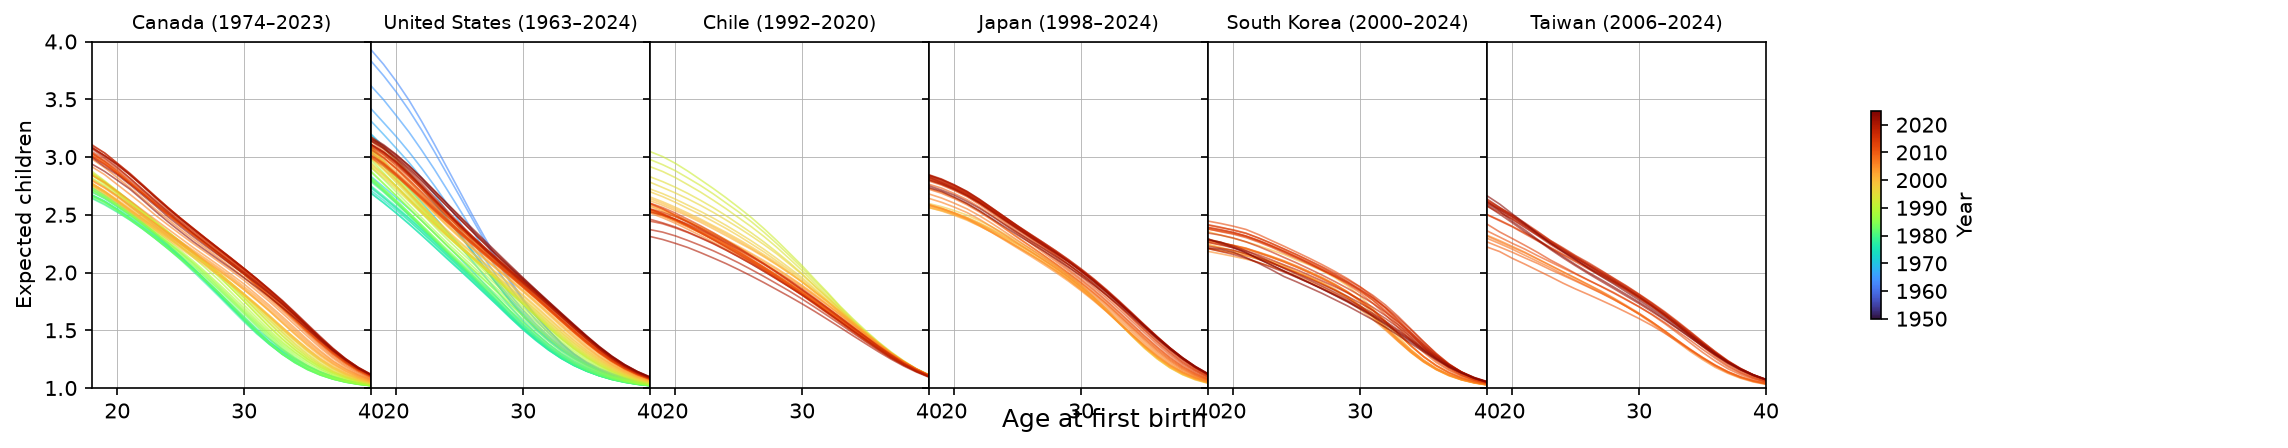
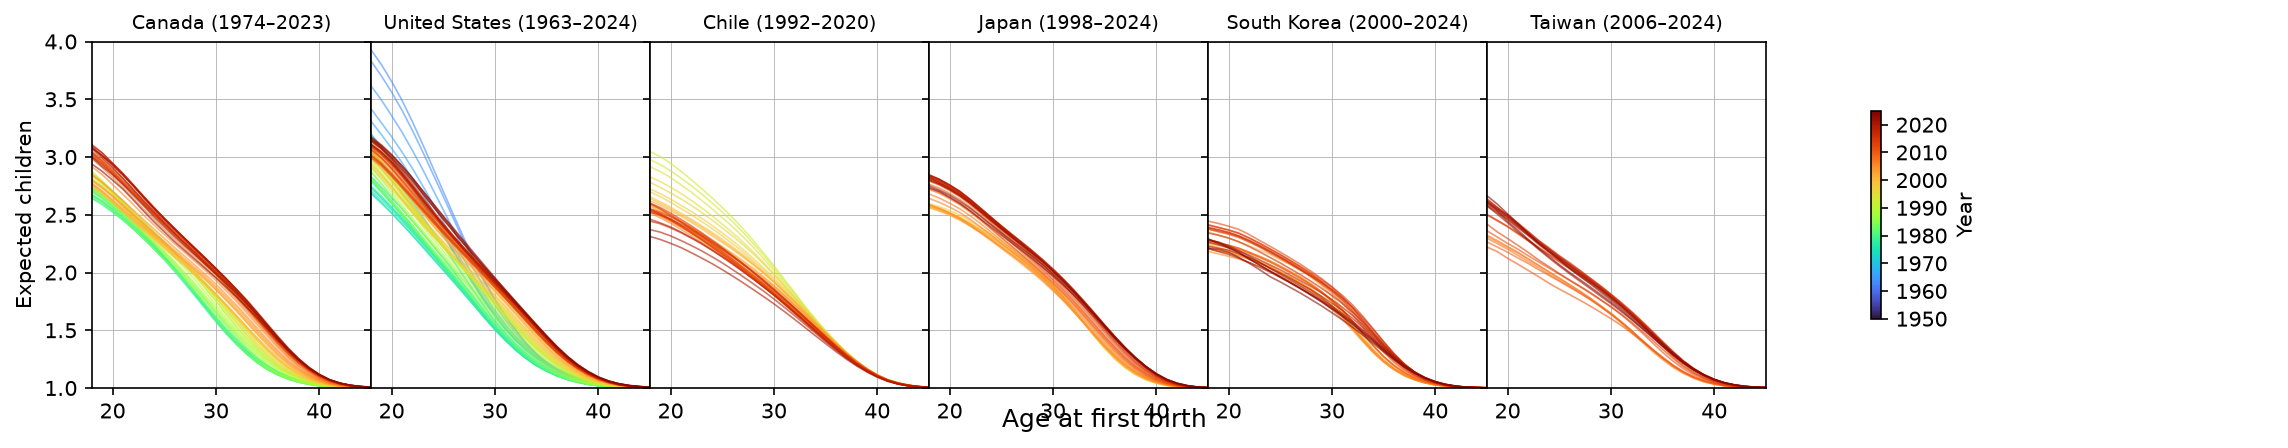
Extend X_LIM to 45 to match MIN_COMPLETE_AGE
X_LIM (chart x-axis range) and MIN_COMPLETE_AGE (cohort-inclusion
threshold) had both been 40 and were easy to conflate, but they're
independent: raising MIN_COMPLETE_AGE to 45 didn't change what age range
gets plotted. Extends the axis to match, on the main and accuracy charts
(births_per_mother_period_grid.py inherits X_LIM from
births_per_mother_region_grid.py, so no separate change needed there).

diff --git a/HFD/scripts/births_per_mother_accuracy.py b/HFD/scripts/births_per_mother_accuracy.py
@@ -28,7 +28,7 @@ from births_per_mother_region_grid import _expected_children_curve as expected_c
 from country_names import country_title
 
 REGISTER_COUNTRIES = ["DNK", "FIN", "HUN", "NOR", "SWE"]
-X_LIM = (18, 40)
+X_LIM = (18, 45)
 
 COLS = ["code", "year", "x", "w0x", "m1x", "q1x", "l0x", "b1x", "L0x", "Sb1x",
         "w1x", "m2x", "q2x", "l1x", "b2x", "L1x", "Sb2x",

diff --git a/HFD/scripts/births_per_mother_region_grid.py b/HFD/scripts/births_per_mother_region_grid.py
@@ -34,7 +34,7 @@ VALUE_5PLUS = 5.0
 # South Korea) show no lines: none of their tracked cohorts are old enough
 # yet for this page's terminal-age assumption to be safe.
 MIN_COMPLETE_AGE = 45
-X_LIM = (18, 40)
+X_LIM = (18, 45)
 Y_LIM = (1.0, 4.0)
 
 

diff --git a/docs/hfd/births-per-mother.md b/docs/hfd/births-per-mother.md
@@ -55,5 +55,5 @@ HFD. Human Fertility Database. Max Planck Institute for Demographic Research (Ge
 and Vienna Institute of Demography (Austria). Available at [www.humanfertility.org](https://www.humanfertility.org/).
 Data downloaded on 2026-07-13.
 
-Mean absolute error across every (year, age 18-39) cell: 0.006-0.010 children, against a range of roughly 1.0-3.0.
+Mean absolute error across every (year, age 18-44) cell: 0.005-0.008 children, against a range of roughly 1.0-3.0.
 ```
